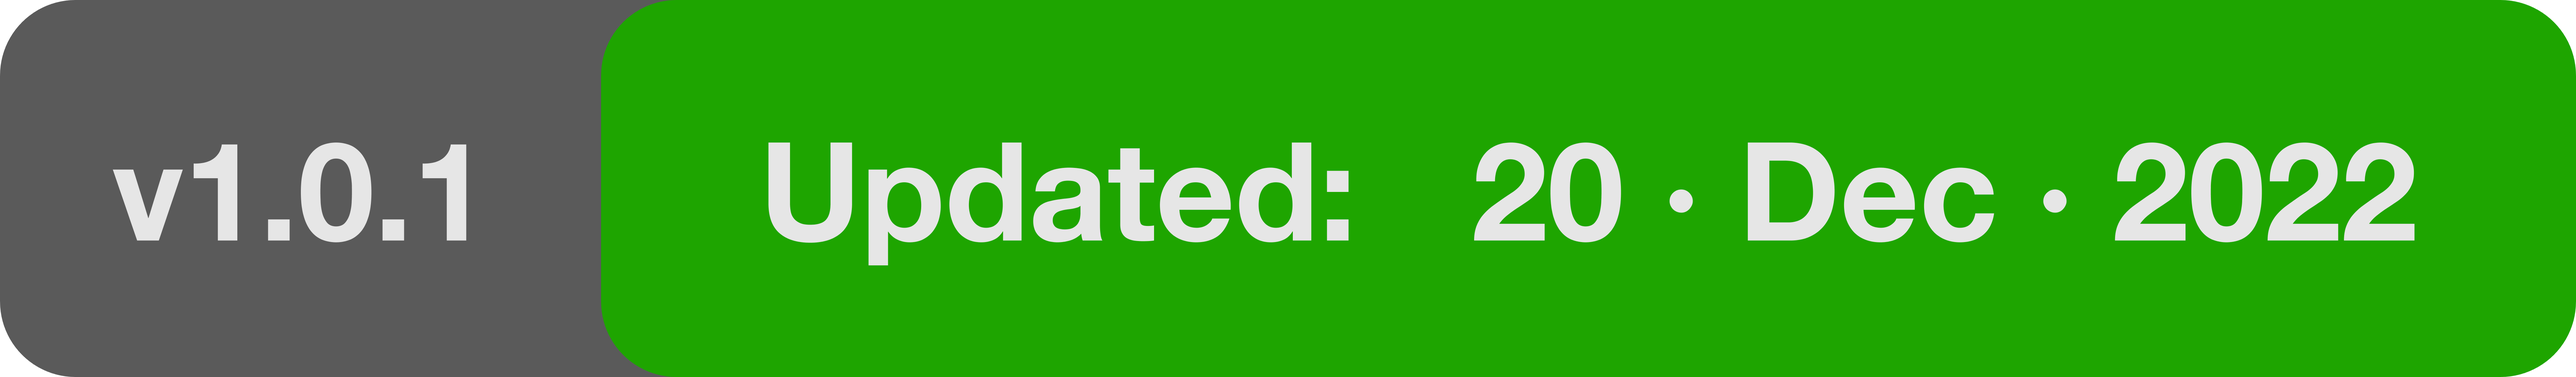
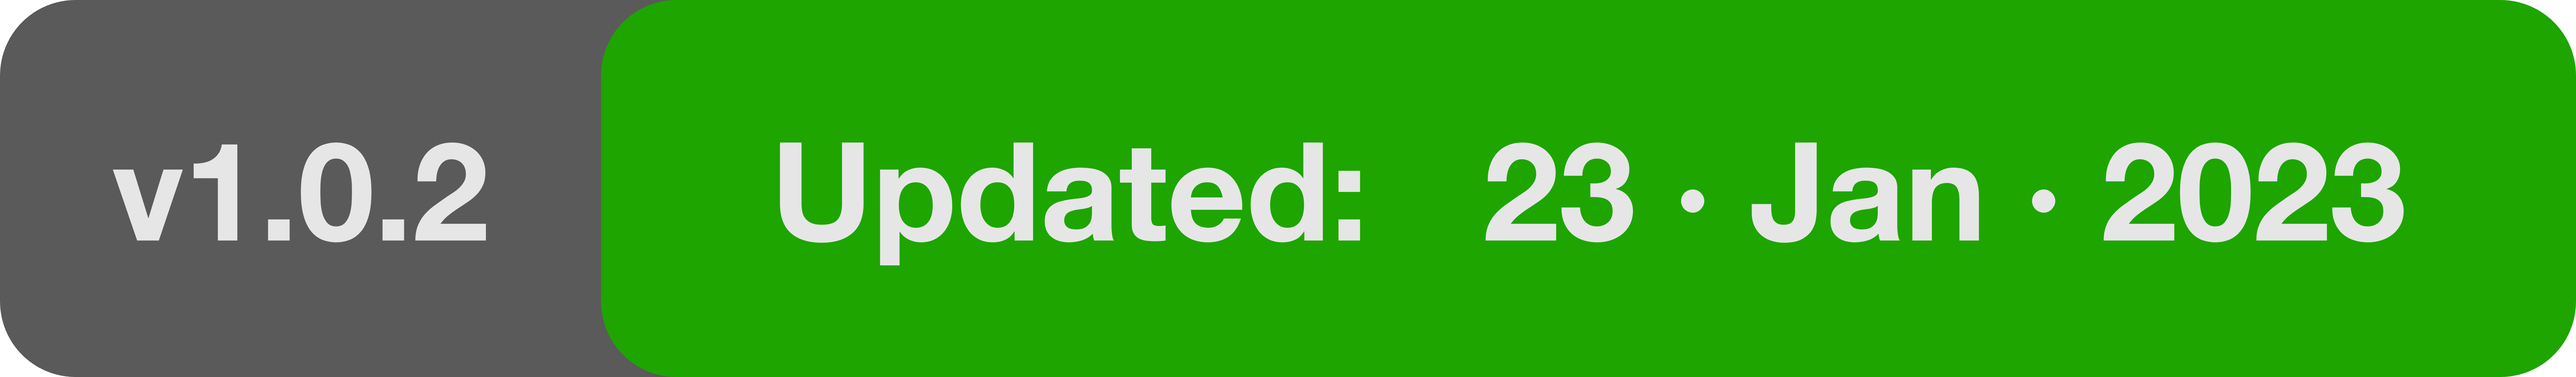
Update cmdWaitBar version.

Changed region(s): [[0.5616, 0.3716, 0.936, 0.6503], [0.2808, 0.3716, 0.5304, 0.7122], [0.156, 0.3716, 0.1872, 0.6503]]

diff --git a/cmdWaitBar/tmp_VersionReadMe.md b/cmdWaitBar/tmp_VersionReadMe.md
@@ -1,0 +1,3 @@
+### New release (v1.0.2) key updates:
+---
+- Addition of '.gitignore' file.
